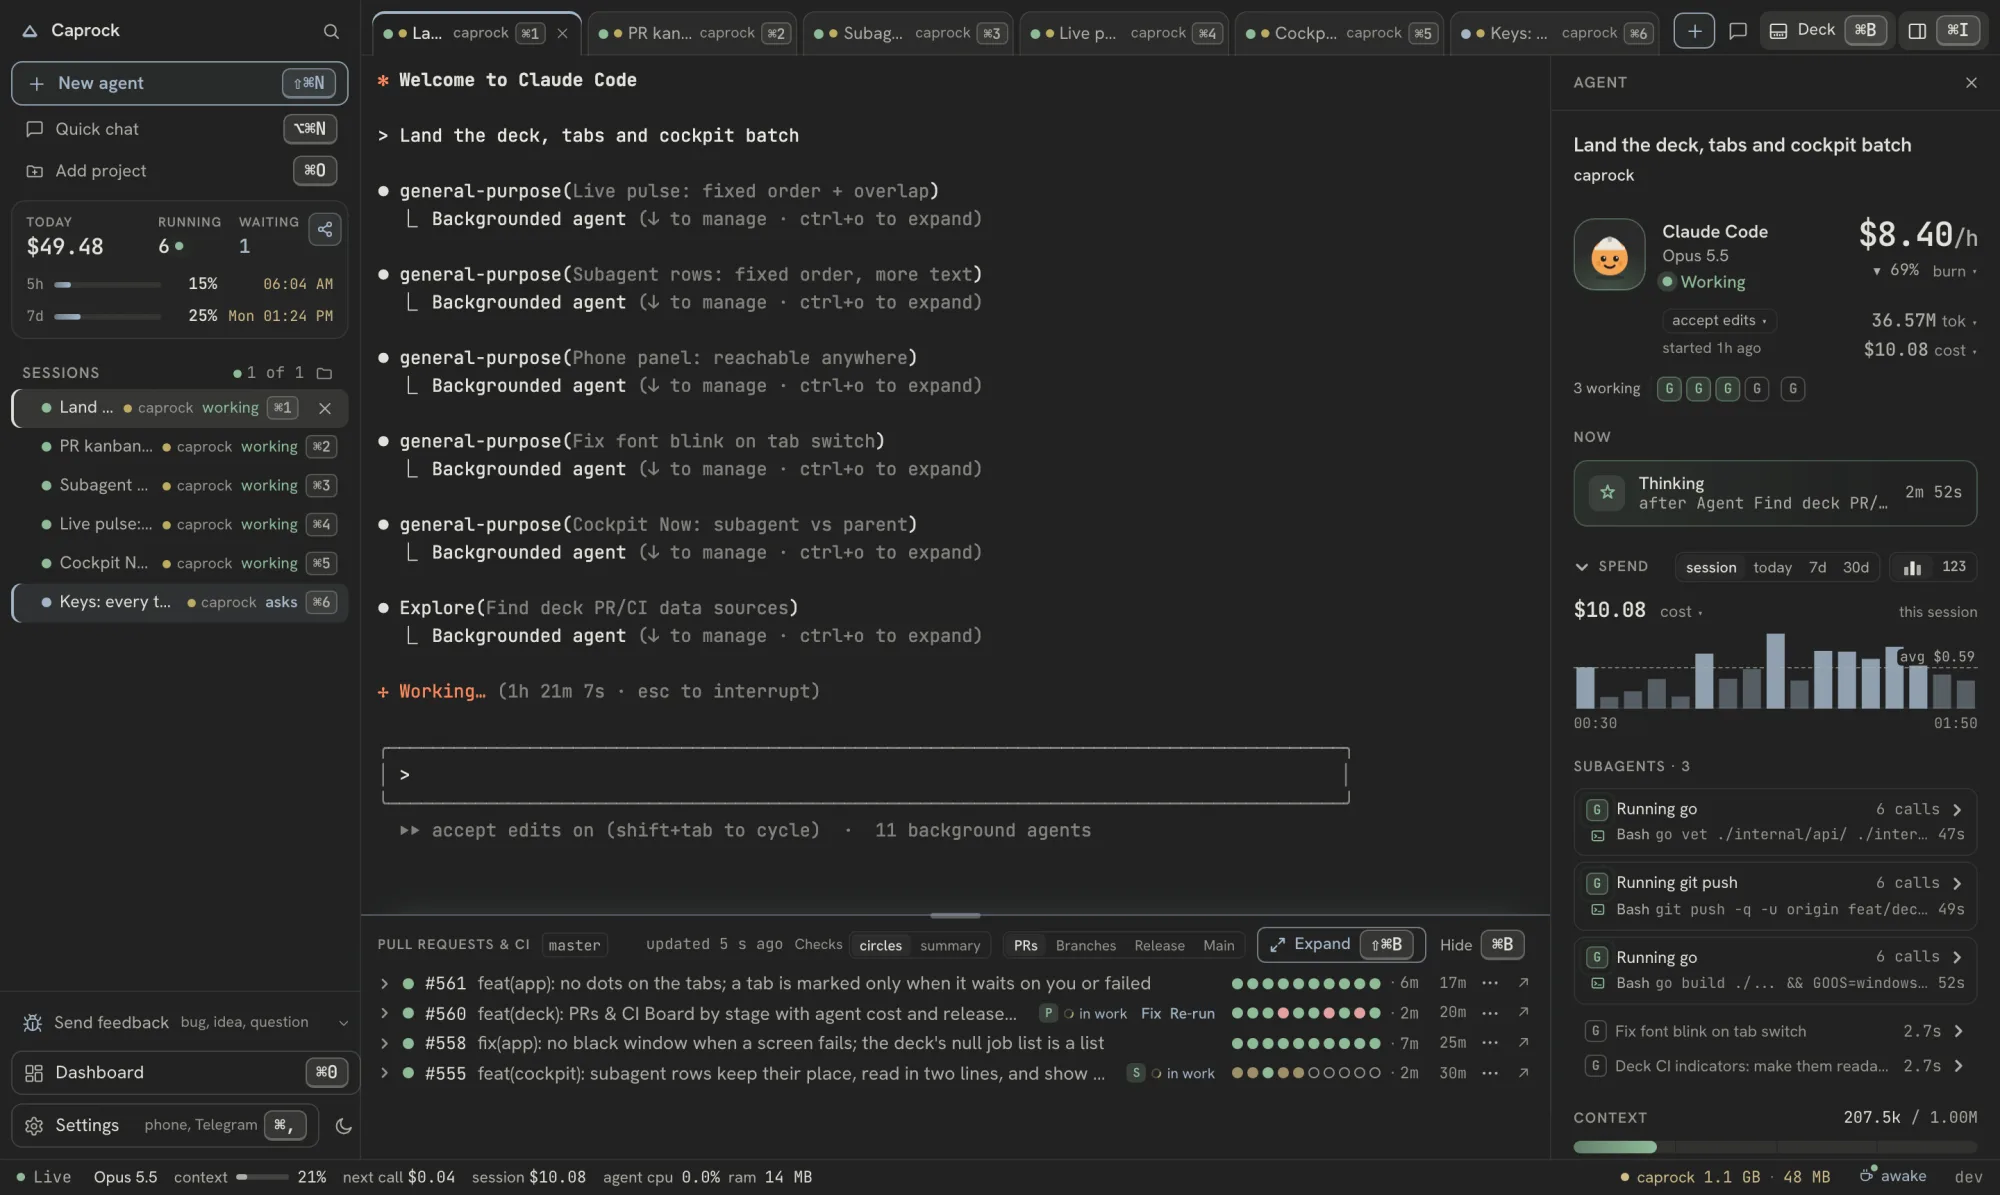
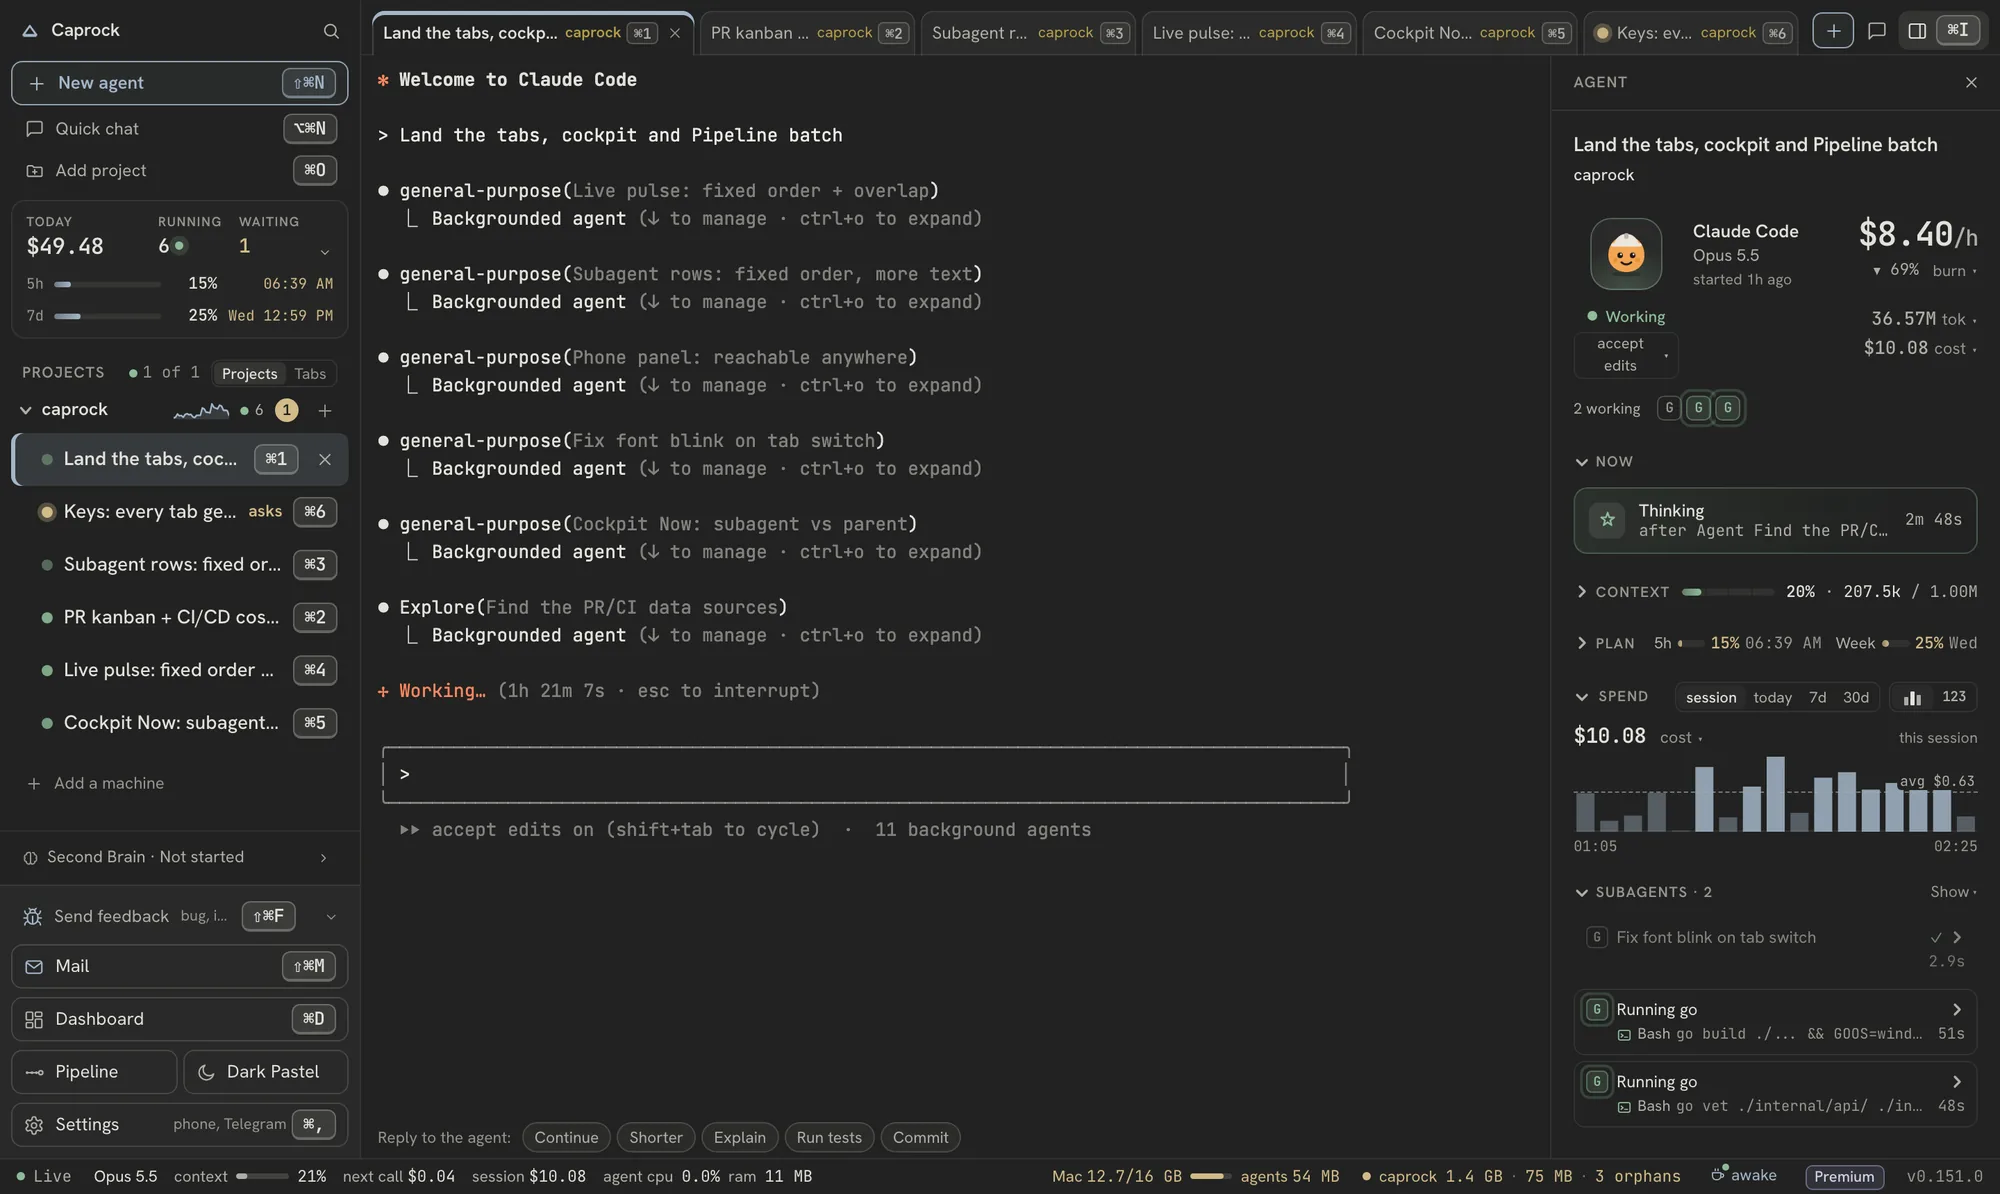
docs(readme): retake every README capture from the current app; the release line says Next release once (#806)
* fix(pipeline): the release plan says Next release once when no version is predicted

The heading already says Next release when there is no version; the line
under it kept its own head word and read 'Next release Next release · 1
merged'. The line now drops its head word always.

* docs(readme): fresh captures from the current app; the Pipeline replaces the removed deck

Every README capture was from 2026-10-14 and showed UI that is gone: the
Deck ⌘B button, the session deck under the terminal, dots on the tabs, the
old sidebar. The Changes capture looked broken: its file list was scrolled
under a ten-row checks list, cutting a row in half. Not an overlap in the
app: the strip and the list are stacked; the capture now folds the checks to
the failing ones and keeps the list at its top.

Retaken on a sandboxed stand (caprock-web's rich.sh replay, demo data, both
themes): hero, tabs, changes, menubar, phone, limits; deck.webp becomes
pipeline.webp, with alt texts that say what is on screen now.

diff --git a/ui/src/components/ReleasePlan.tsx b/ui/src/components/ReleasePlan.tsx
@@ -82,6 +82,8 @@ export function ReleasePlan({ plan, compact = false, showRepo = false, onOpen, e
   if (nothing && !plan.next && !empty) return null
   const merge = plan.ships === 'merge'
   // A release pull request names the version; else the rule's prediction.
+  // The heading says the version or, with none, "Next release": the line's own
+  // head word would repeat it ("Next release Next release · 1 merged").
   const pre = !merge && status?.phase === 'pre' ? status : undefined
   const v = pre?.version ?? plan.next?.version
   const steps = { ships: plan.ships, next: v }
@@ -108,7 +110,7 @@ export function ReleasePlan({ plan, compact = false, showRepo = false, onOpen, e
           <span data-release-since title={plan.since?.title} className="num min-w-0 truncate text-[11px] text-fg-muted">
             <span aria-hidden className="mr-1.5 text-fg-faint">·</span>last {plan.last.name} {ageText(now - plan.last.at)} ago
           </span>
-        )) : plan.line ? <ReleaseLine parts={v ? plan.line.filter((p) => p.key !== 'head') : plan.line} since={plan.since} phone={phone} compact={compact} /> : plan.since && (
+        )) : plan.line ? <ReleaseLine parts={plan.line.filter((p) => p.key !== 'head')} since={plan.since} phone={phone} compact={compact} /> : plan.since && (
           <span data-release-since title={plan.since.title} className={`num min-w-0 text-fg-muted [overflow-wrap:anywhere] ${phone ? 'basis-full text-[12.5px]' : compact ? 'basis-full text-[11px]' : 'text-[12.5px]'}`}>{plan.since.text}</span>
         )}
       </header>

diff --git a/ui/src/components/ReleasePlan.test.tsx b/ui/src/components/ReleasePlan.test.tsx
@@ -181,6 +181,15 @@ describe('the release plan', () => {
     expect(screen.getByRole('heading', { name: 'Next release' }).title).toMatch(/No number/)
   })
 
+  it('says Next release once when no version is predicted: the line does not repeat it', () => {
+    const p = planForRepo(workFixture(), '/w/caprock', statsFixture(), NOW)
+    expect(p.line?.[0]?.key).toBe('head')
+    const { container } = render(<ReleasePlan plan={p} />)
+    const header = container.querySelector('header')!
+    expect(header.textContent!.match(/Next release/g)).toHaveLength(1)
+    expect(container.querySelector('[data-line-part="head"]')).toBeNull()
+  })
+
   // Owner, 2026-10-18, translated, of caprock-web: eighteen merged pull
   // requests under Next release, each waiting for a release that never comes.
   it('has no next release where the repository ships on merge: one line, open work, and a short Merged recently', () => {

diff --git a/README.md b/README.md
@@ -15,10 +15,10 @@ brew install --cask dspv/tap/caprock-app
 
 <picture>
   <source media="(prefers-color-scheme: light)" srcset="docs/readme/hero-light.webp">
-  <img alt="The Caprock app: six Claude Code sessions in tabs, one running six background agents; on the right its cost per hour, spend chart, subagents and context; below, the repository's pull requests with their CI checks" src="docs/readme/hero.webp">
+  <img alt="The Caprock app: six Claude Code sessions in tabs and in the sidebar, one of them waiting on you; the one in front runs background agents, and on the right are its cost per hour, context, plan limits, spend chart and running subagents" src="docs/readme/hero.webp">
 </picture>
 
-<sub>A real Caprock work session in this repository. Example figures.</sub>
+<sub>A real Caprock work session in this repository, replayed on a demo stand. Example figures.</sub>
 
 Other downloads: [macOS .dmg](https://github.com/dspv/caprock/releases/latest/download/Caprock-macOS.dmg) ·
 [Windows](https://github.com/dspv/caprock/releases/latest/download/Caprock-Windows-setup.exe) ·
@@ -96,13 +96,13 @@ a branch behind master gets *Fix CI with agent*, *Fix conflict with agent* or
 without leaving the window.
 
 <picture>
-  <source media="(prefers-color-scheme: light)" srcset="docs/readme/deck-light.webp">
-  <img alt="The Pull requests and CI tab: merges in 14 days, time to merge, CI time, red runs and Actions minutes above; the PR list on the left; one PR's checks as a job-by-runner grid on the right, with Fix CI with agent and Re-run checks" src="docs/readme/deck.webp">
+  <source media="(prefers-color-scheme: light)" srcset="docs/readme/pipeline-light.webp">
+  <img alt="The Pipeline: what needs a fix, merges a day and agent spend over 14 days above; below, the next release with each open pull request's progress, its CI state per OS, what the agents spent on it and its age" src="docs/readme/pipeline.webp">
 </picture>
 
 <picture>
   <source media="(prefers-color-scheme: light)" srcset="docs/readme/changes-light.webp">
-  <img alt="The Changes view on a feature branch: the pull request's checks with two failed Go jobs and Fix with agent, the changed files, a diff, and Commit and Commit and Push" src="docs/readme/changes.webp">
+  <img alt="The Changes view on a feature branch: the pull request with its three failed Go checks and Fix with agent, the changed files, a diff, and Commit all and Commit and Push" src="docs/readme/changes.webp">
 </picture>
 
 ## And the rest

diff --git a/.ai/04-ui.md b/.ai/04-ui.md
@@ -5458,8 +5458,10 @@ the Work page's *Release* view ([§ Work](#work)), and the phone home's
   translated: the old *7 changes waiting for the next release · last
   release v0.134.0, 18h ago* "is not readable, I cannot see the PRs in
   progress"): *Next release · 7 merged · PR #755 in CI (2/3 ✓) · 1 agent
-  working · last v0.134.0 18h ago* (the *Next release* word is dropped when
-  the version heading already says it). Each part but the last is a button
+  working · last v0.134.0 18h ago* (the *Next release* word is always
+  dropped: the heading says it, as the version or, with none, as *Next
+  release*; until 2026-10-23 a repository with no predicted version read *Next
+  release Next release · 1 merged*). Each part but the last is a button
   that scrolls to its section below (`lib/releaseplan` `releaseLine`):
   *N merged*, the open pull request (the failing one, red, *PR #N CI
   failed*; else the furthest on, *in CI* with the OSes whose checks passed

diff --git a/changes/unreleased/release-line-next-release-once.md b/changes/unreleased/release-line-next-release-once.md
@@ -1,0 +1,5 @@
+---
+kind: Fixed
+---
+- **pipeline:** with no predicted version, the release plan said *Next release
+  Next release · 1 merged*; the line under the heading no longer repeats it.
